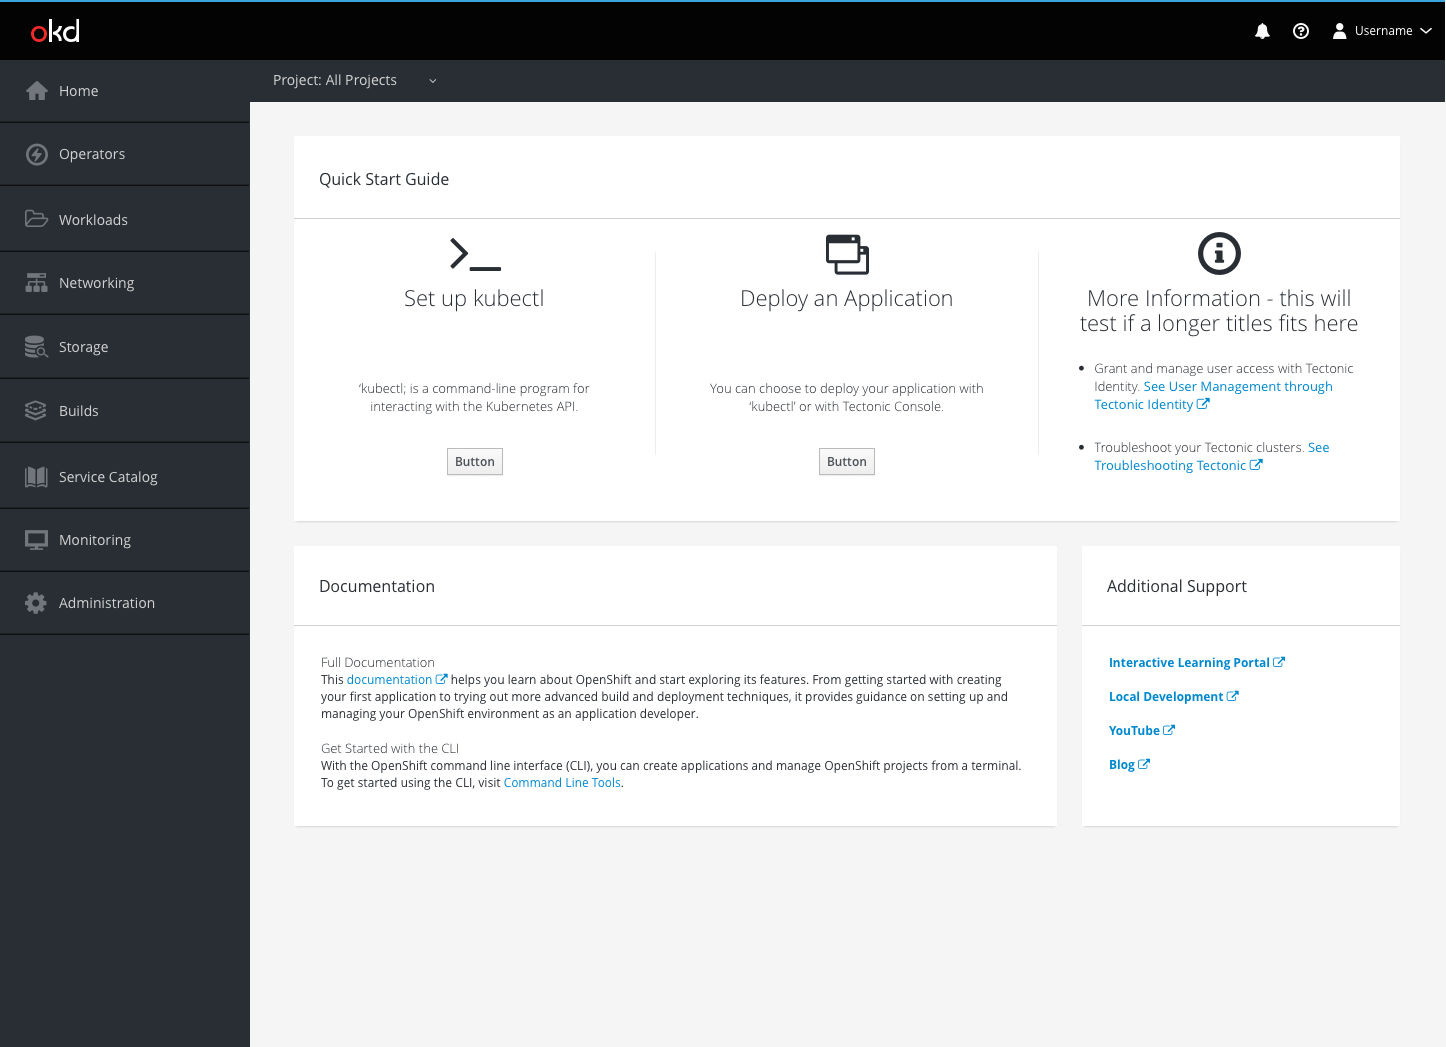
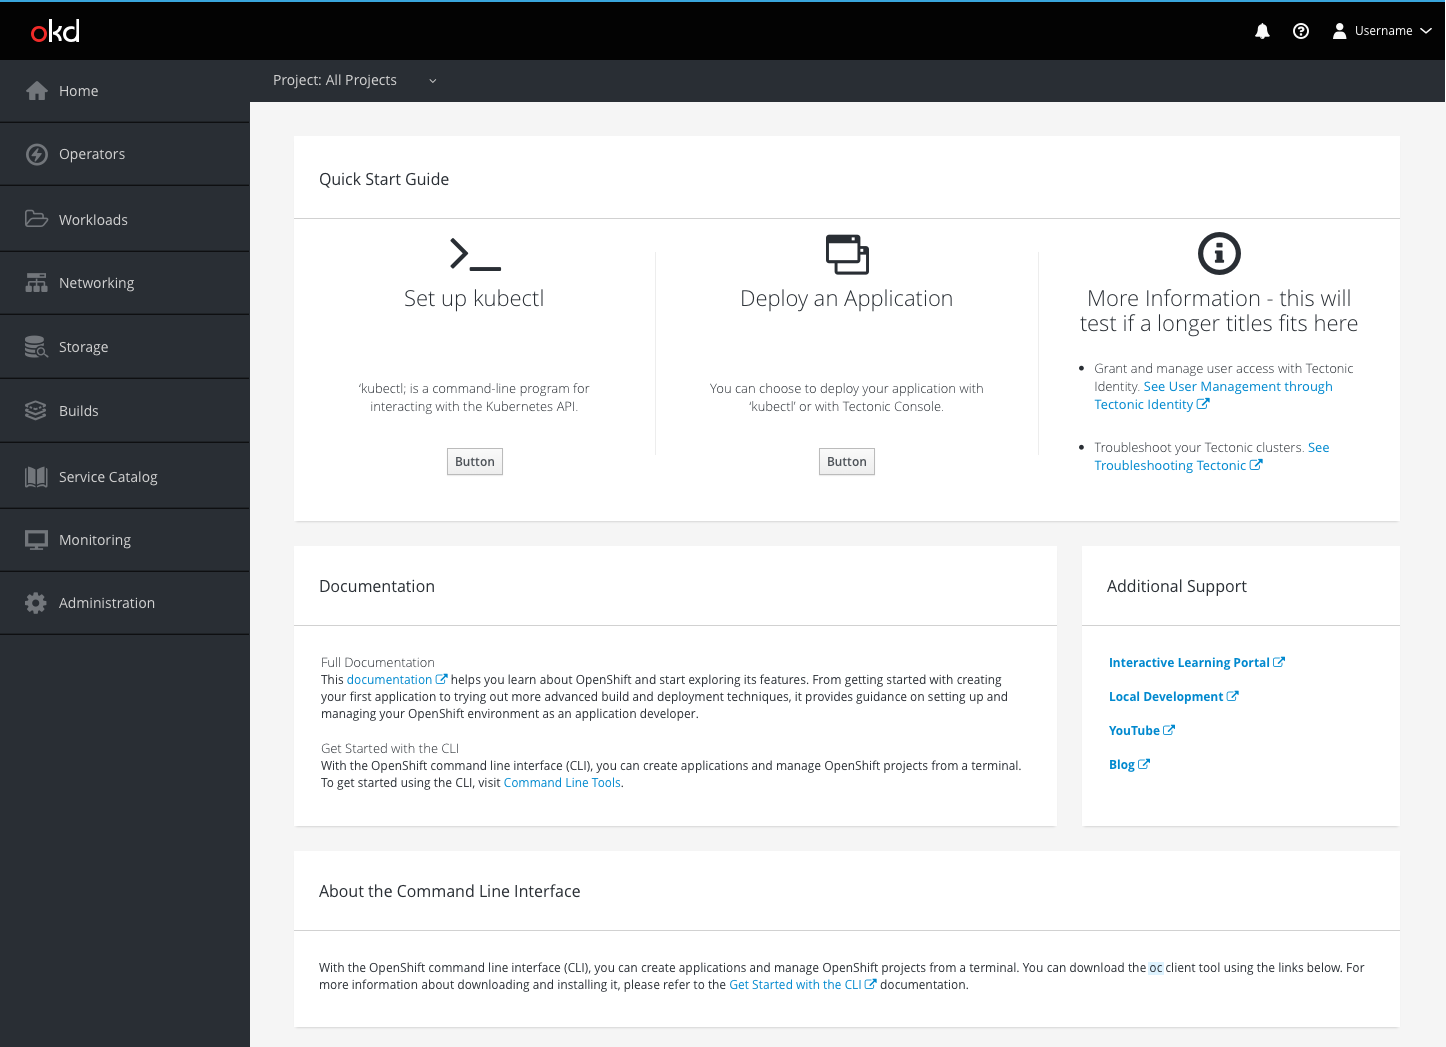
Updating

Changed region(s): [[0.2178, 0.9169, 0.7158, 0.9475], [0.7469, 0.9169, 0.9336, 0.9475], [0.2178, 0.8252, 0.4046, 0.8558]]

diff --git a/web-console/4.0-designs/help-menu/help-menu.md b/web-console/4.0-designs/help-menu/help-menu.md
@@ -5,23 +5,15 @@ The help menu will be accessible at all times from the primary masthead. Users c
 **Menu Dropdown**
 ![menu](img/menu.png)
 
-* The menu dropdown will include links to Documentation, the Quick Start Guide, the Command Line Tools page, and the About modal
+* The menu dropdown will include links to Documentation, the Quick Start Guide, and the About modal
   * Documentation will redirect users to an external link
   * Quick Start Guide will take users to the Quick Start Guide landing page
-  * Command Line Tools will redirect users to the CLI page
   * About will open the About modal
-
-
 
 **Quick Start Guide**
 ![Quick Start Guide](img/quick-start-guide.png)
 
-* The Quick Start Guide landing page will have the quick start guide info as well as information regarding documentation and additional support links
-
-**CLI page**
-![CLI](img/CLI-page.png)
-
-* The CLI page will have information about the oc client and command line tools
+* The Quick Start Guide landing page will have the quick start guide info, information regarding documentation and additional support links, and information about the oc client and command line tools
 
 **About**
 ![About](img/about-modal.png)
